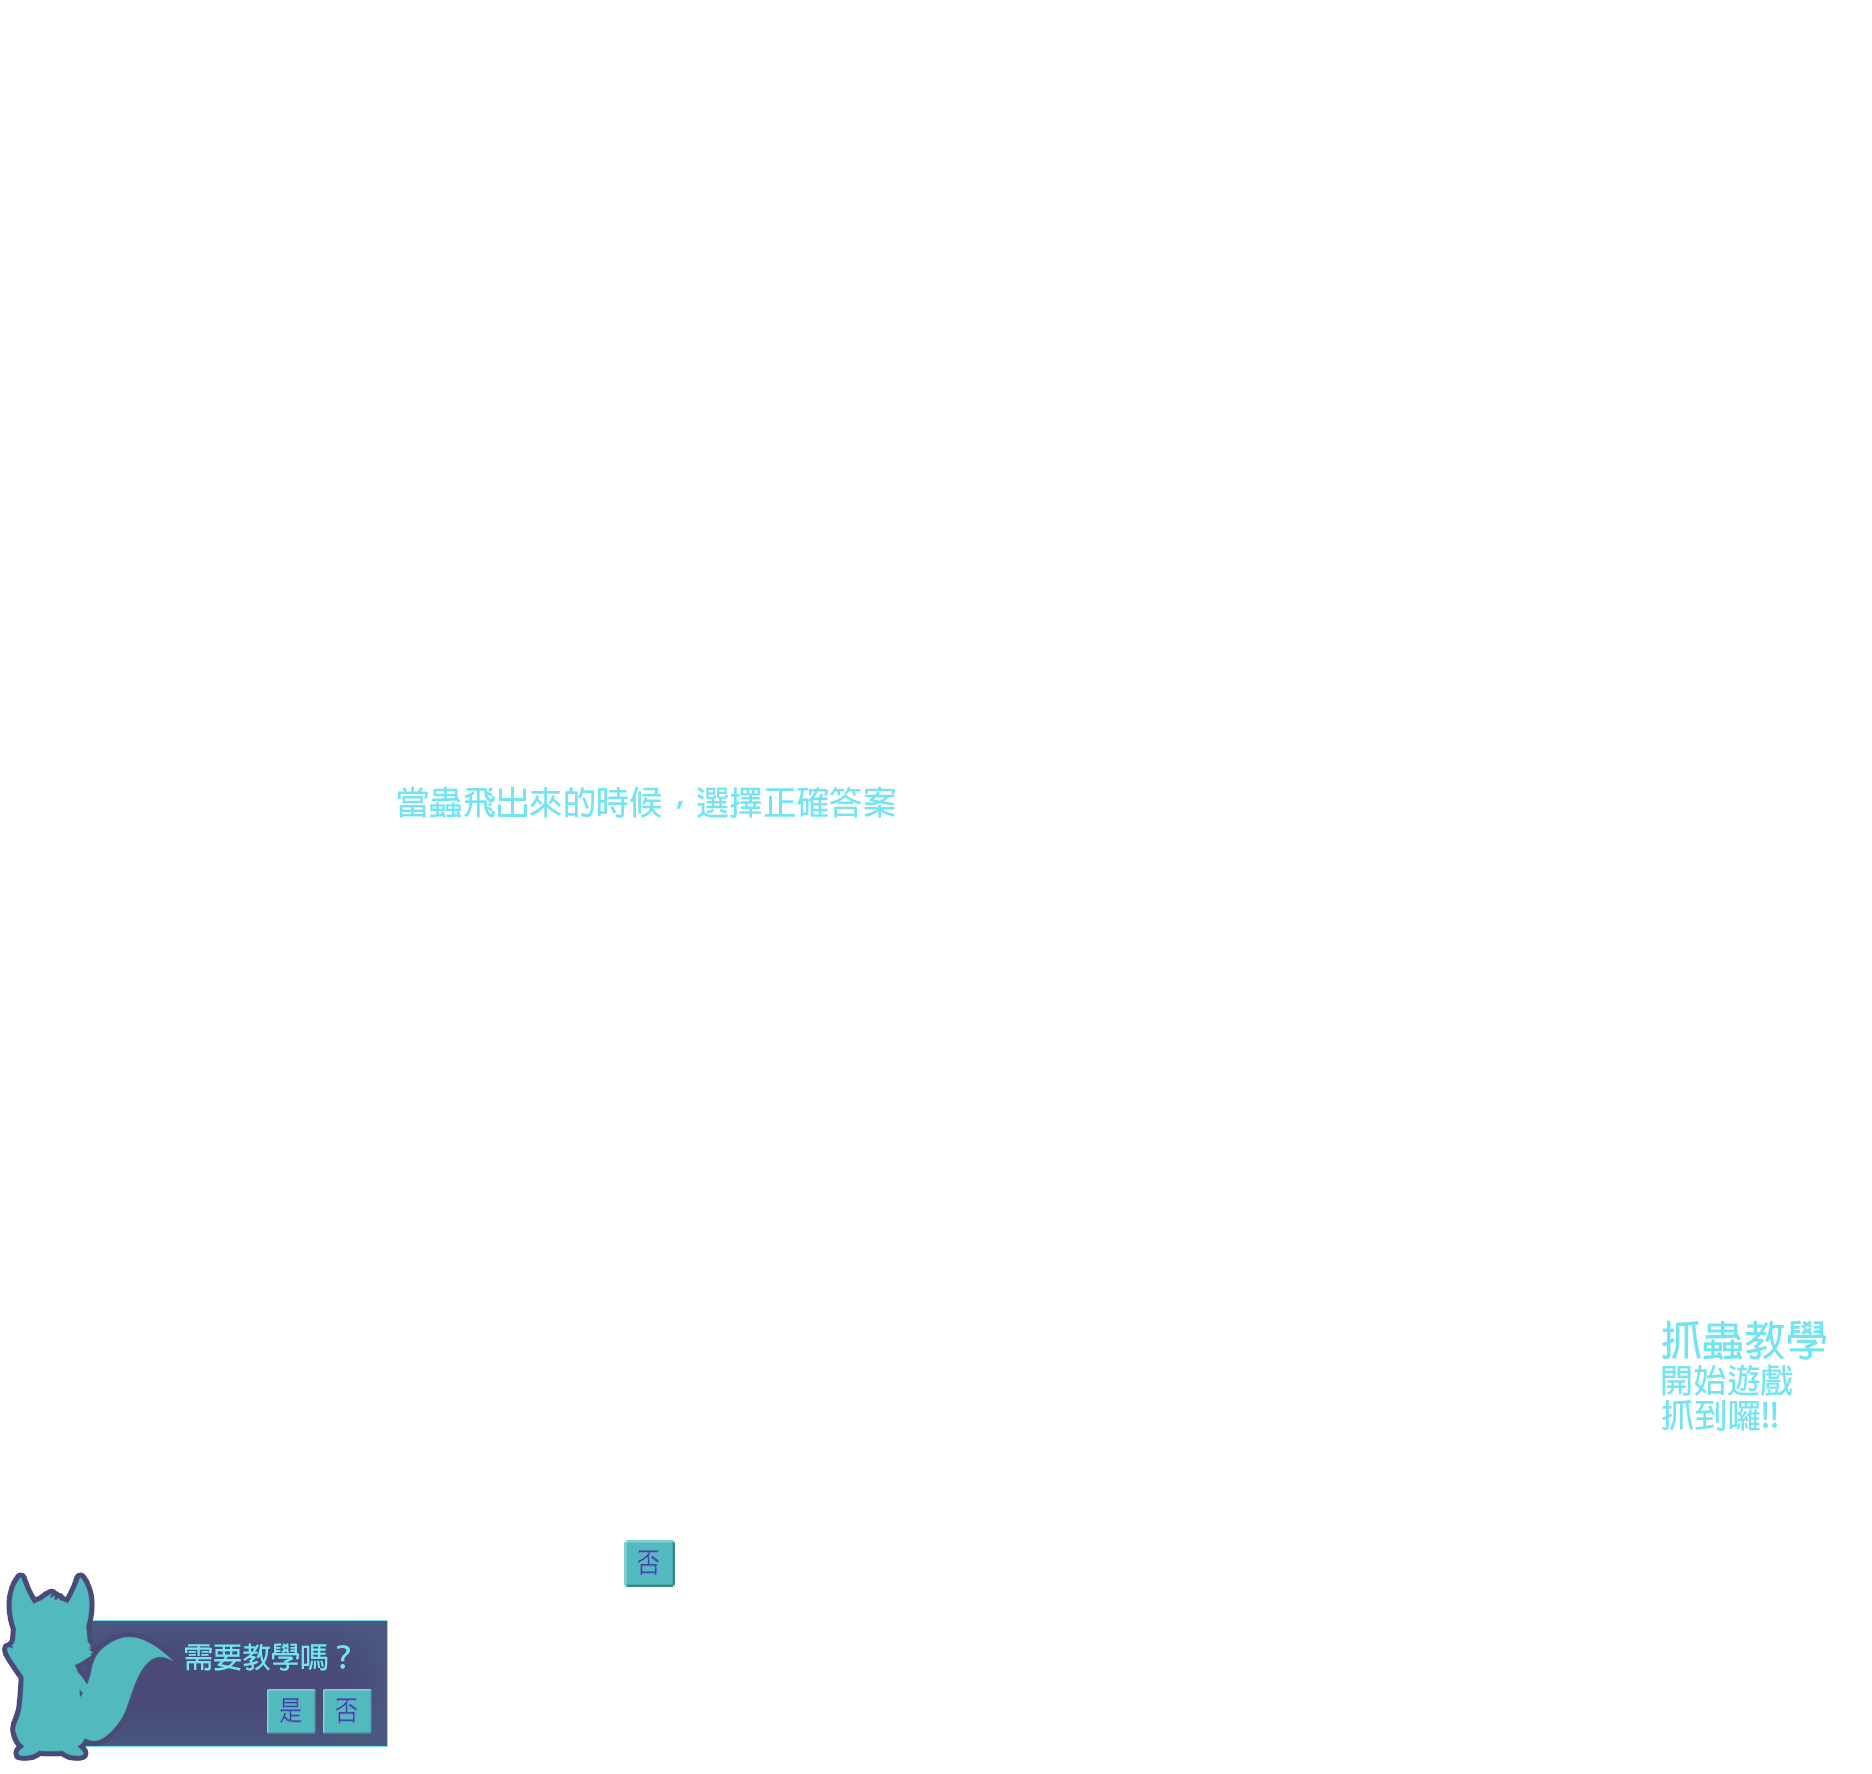
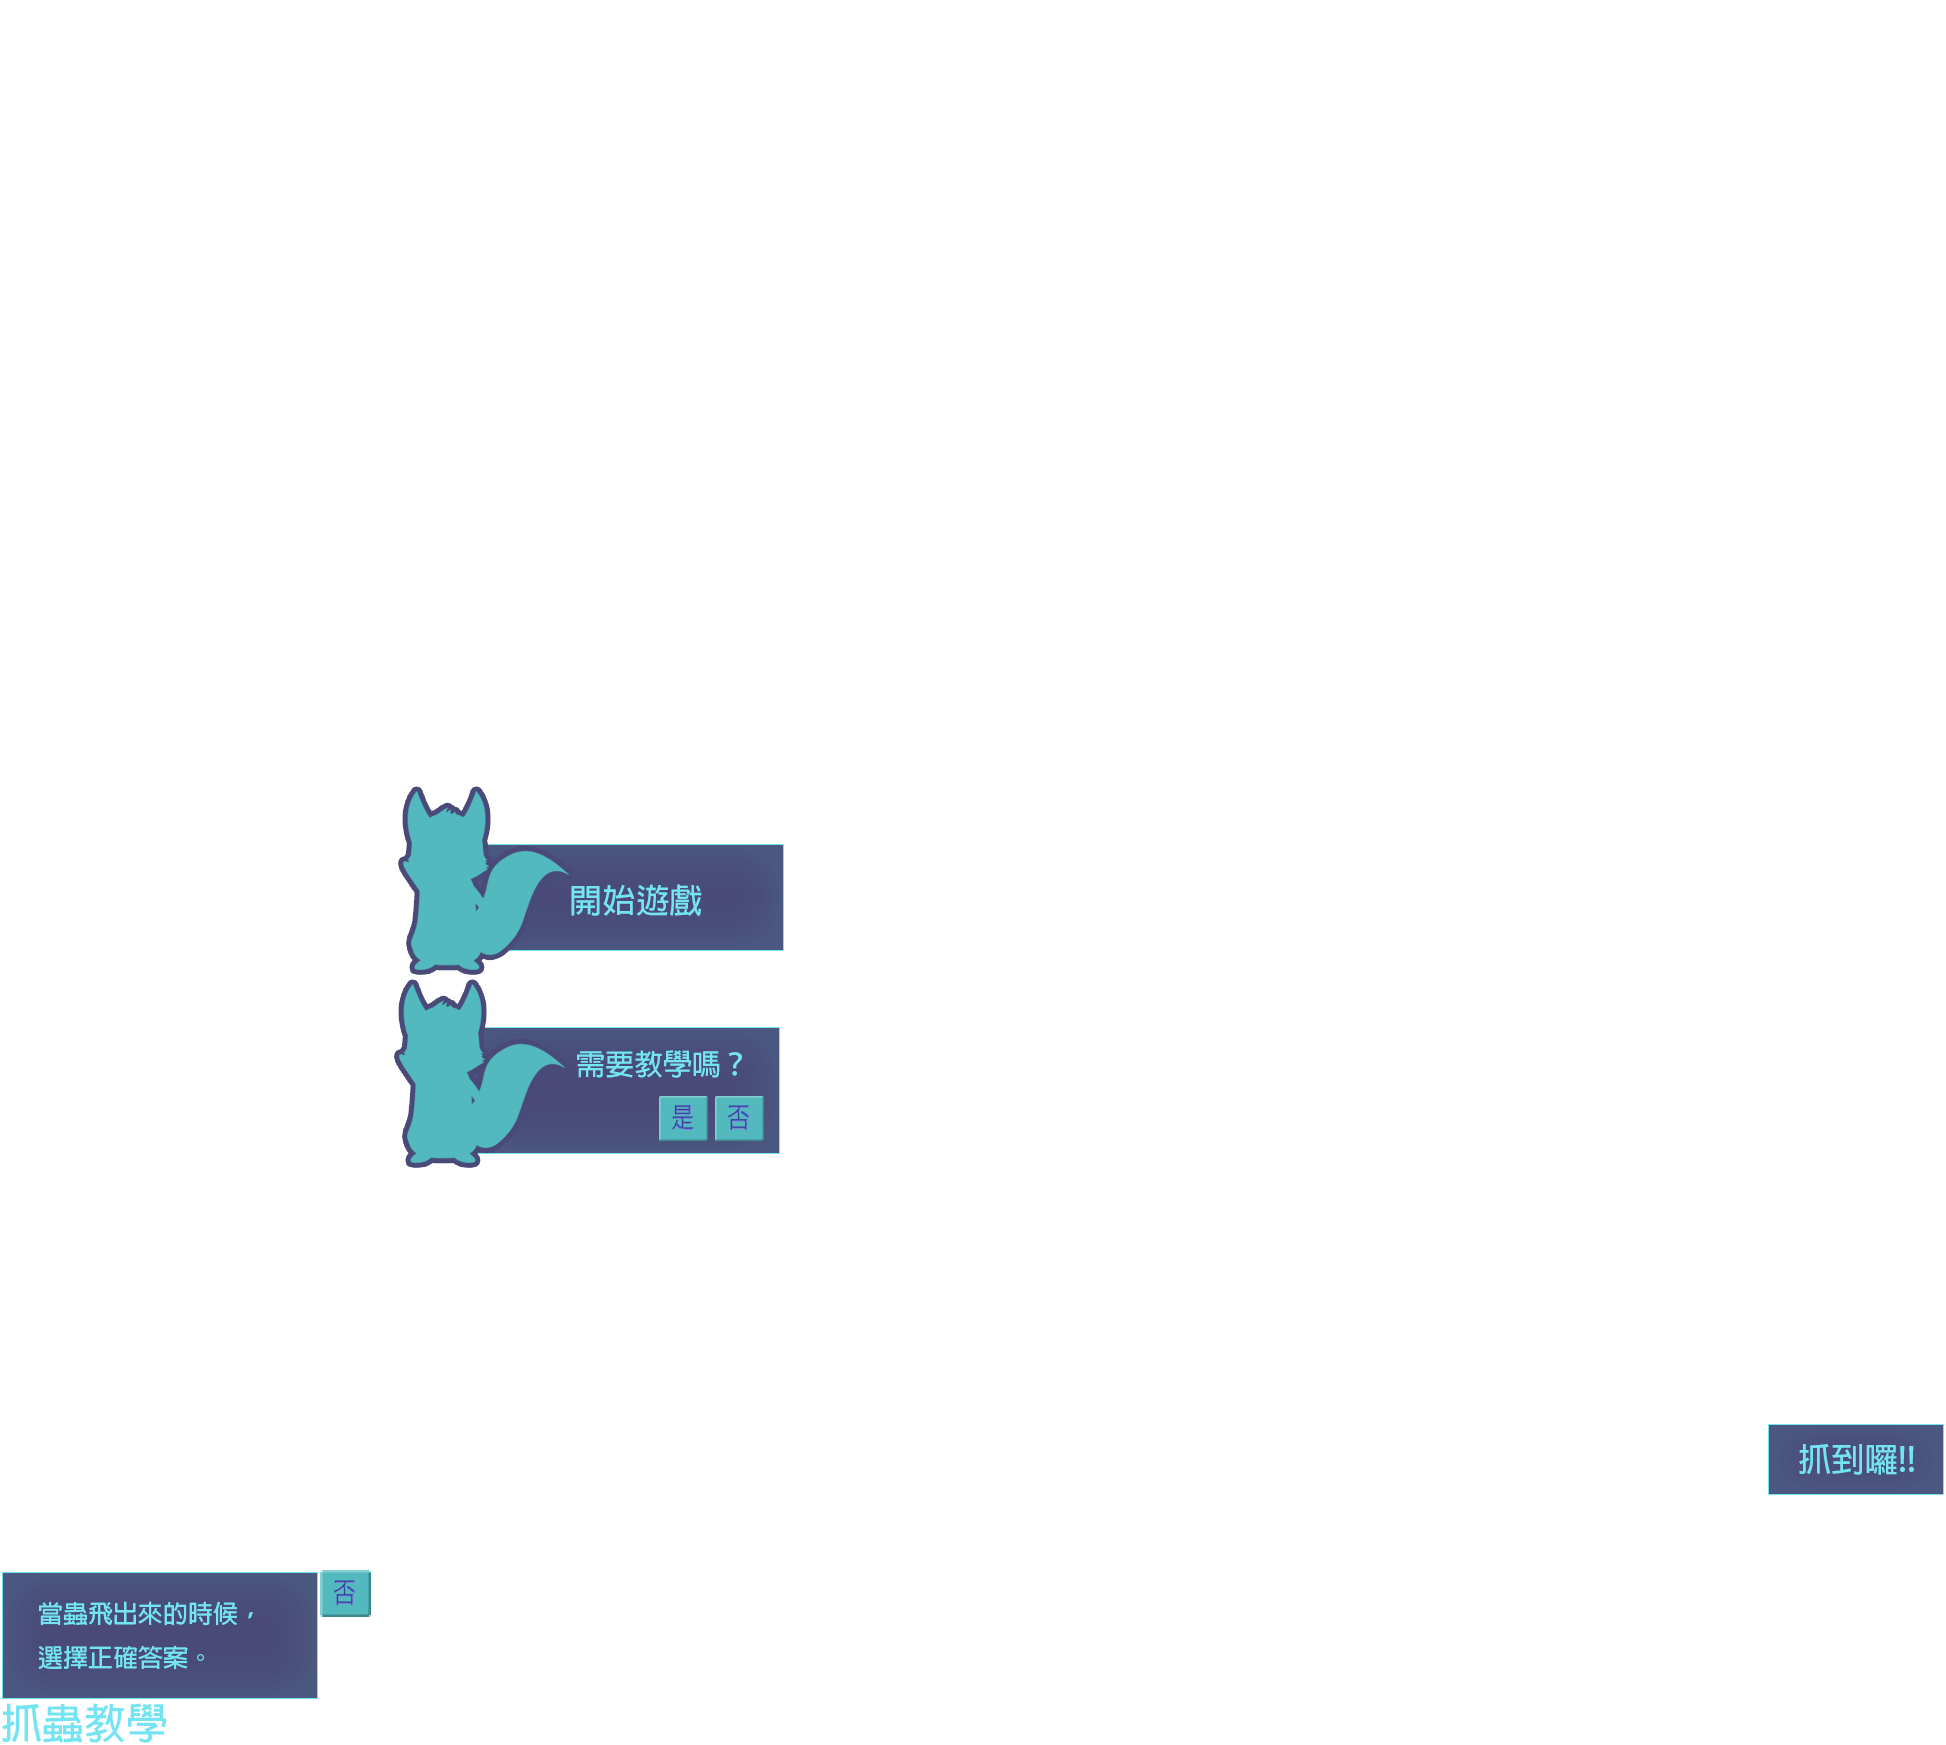
modify catch bug page tutorial

diff --git a/javascript/math_game/js/CatchBugPage.js b/javascript/math_game/js/CatchBugPage.js
@@ -121,15 +121,7 @@ demo.CatchBugPage.prototype = {
 
         //CreateCatchBugPageAnswerNum(0);
         //Tutorial-------------------------------------------------------------------------------------------
-        TutorialText1 = game.add.sprite(0,100,'TutorialText','TutorialText1.png');
-        TutorialText1.alpha = 0;
-        TutorialText2 = game.add.sprite(0,100,'TutorialText','TutorialText2.png');
-        TutorialText2.alpha = 0;
-        TutorialText3 = game.add.sprite(0,100,'TutorialText','TutorialText3.png');
-        TutorialText3.alpha = 0;
-        StartText = game.add.sprite(0,100,'TutorialText','StartText.png');
-        StartText.alpha = 0;
-        
+
        
         
     
@@ -140,6 +132,17 @@ demo.CatchBugPage.prototype = {
         TutorialBlackBG.events.onInputDown.add(Block, this);
         TutorialBlackBG.inputEnabled = true;
         //TutorialBlackBG.scale.setTo(0);
+        TutorialText1 = game.add.sprite(0,100,'TutorialText','TutorialText1.png');
+        TutorialText1.alpha = 0;
+        TutorialText2 = game.add.sprite(0,100,'TutorialText','TutorialText2.png');
+        TutorialText2.alpha = 0;
+        TutorialText3 = game.add.sprite(0,100,'TutorialText','TutorialText3.png');
+        TutorialText3.alpha = 0;
+        StartText = game.add.sprite(centerX,centerY,'TutorialText','StartText.png');
+        StartText.anchor.setTo(0.5);
+        StartText.alpha = 0;
+        
+        
         TutorialAskBoard = game.add.sprite(0,100,'TutorialText','TutorialAsk.png');
         TutorialAskBoard.alpha = 0;              
         
@@ -376,8 +379,6 @@ demo.CatchBugPage.tutorialStart = function(){
     for(let i = 0;i<5;i++){
         AnswerPanel[i].inputEnabled = false;
     }    
-    TutorialText1ShowUp = game.add.tween(TutorialText1).to({alpha:1},300,'Quad.easeOut',true,1000);
-    TutorialText1ShowUp.onComplete.add(function(){
         TutorialText2ShowUp = game.add.tween(TutorialText2).to({alpha:1},300,'Quad.easeOut',true,1000);
         TutorialText2ShowUp.onComplete.add(function(){
             TutorialBlackBG.scale.setTo(0);
@@ -387,12 +388,11 @@ demo.CatchBugPage.tutorialStart = function(){
             t = 100;     
         },this);
 
-    },this);
 };
 demo.CatchBugPage.tutorialFinish = function(){
     t = -1;  
     FlyingBugAnimate.stop();
-    TutorialText2.alpha = 0;
+    //TutorialText2.alpha = 0;
     TutorialText3ShowUp = game.add.tween(TutorialText3).to({alpha:1},500,Phaser.Easing.Elastic.Out,true);
     TutorialText3ShowUp.onComplete.add(function(){
         TutorialText3FadeOut = game.add.tween(TutorialText3).to({alpha:0},1000,'Quad.easeIn',true,2000);
@@ -400,10 +400,16 @@ demo.CatchBugPage.tutorialFinish = function(){
         game.add.tween(TutorialText1).to({alpha:0},1000,'Quad.easeIn',true,2000);
             
         TutorialText3FadeOut.onComplete.add(function(){
-            StartText.ShowUp = game.add.tween(StartText).to({alpha:1},500,'Quad.easeIn',true,1000);
+            StartText.scale.setTo(0);
+            StartText.alpha = 1;
+            //TutorialBlackBG.scale.setTo(1);
+            //game.add.tween(TutorialBlackBG).to({alpha :0.5},100,'Quad.easeOut',true,1000);
+            StartText.ShowUp = game.add.tween(StartText.scale).to({x:1,y:1},200,'Quad.easeIn',true,1000);
             StartText.ShowUp.onComplete.add(function(){
-                StartText.FadeOut = game.add.tween(StartText).to({alpha:0},1000,'Quad.easeIn',true,1500);
+                //game.add.tween(TutorialBlackBG).to({alpha :0},100,'Quad.easeOut',true,1500);
+                StartText.FadeOut = game.add.tween(StartText.scale).to({x:0,y:0},200,'Quad.easeIn',true,1500);
                 StartText.FadeOut.onComplete.add(function(){
+                    //TutorialBlackBG.scale.setTo(0);
                     for(let i = 0;i<5;i++){
                         AnswerPanel[i].inputEnabled = true;
                     }
